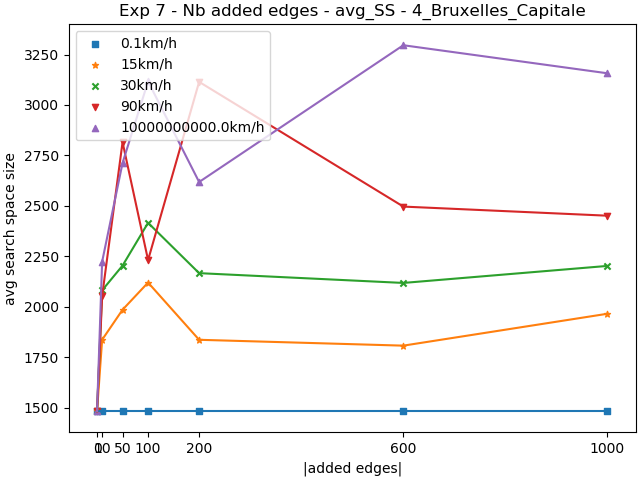
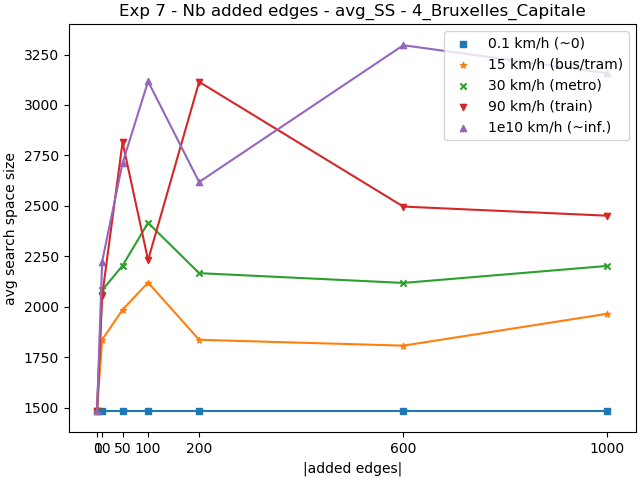
changed modalities repartition plot exp7 to bars

diff --git a/version_py/Visualization.py b/version_py/Visualization.py
@@ -130,13 +130,13 @@ def plotExp7Result(filename, title, ylabel, xlabel, ymetric, algo, graph, save_f
             y.append(stats[graph][str(s)][str(ae)][algo][ymetric])
 
         # scatter points
-        ax1.scatter(x, y, s=MARKER_SIZE, marker=MARKERS[m], label=str(s) + "km/h")
+        ax1.scatter(x, y, s=MARKER_SIZE, marker=MARKERS[m], label=SPEEDS_LABELS[s])
         plt.plot(x, y)
         plt.xticks(x, x)
         m += 1
 
     # show
-    show("upper left", title, ylabel, xlabel, save_filename)
+    show("upper right", title, ylabel, xlabel, save_filename)
 
 
 def plotImprovementsExp7(filename, title, ylabel, xlabel, ymetric, graph, save_filename):
@@ -161,7 +161,7 @@ def plotImprovementsExp7(filename, title, ylabel, xlabel, ymetric, graph, save_f
             y.append(improv)
 
         # scatter points
-        ax1.scatter(x, y, s=MARKER_SIZE, marker=MARKERS[m], label=str(s) + "km/h")
+        ax1.scatter(x, y, s=MARKER_SIZE, marker=MARKERS[m], label=SPEEDS_LABELS[s])
         plt.plot(x, y)
         plt.xticks(x, x)
         m += 1
@@ -190,14 +190,16 @@ def plotExp7ModalitiesLines(filename, title, ylabel, xlabel, graph, categories, 
             y.append(avg_percentage)
 
         # scatter points
-        ax1.scatter(x, y, s=MARKER_SIZE, marker=MARKERS[m], label=mod)
-        plt.plot(x, y)
-        plt.xticks(x, x)
+        # ax1.scatter(x, y, s=MARKER_SIZE, marker=MARKERS[m], label=mod)
+        # plt.plot(x, y)
+        # plt.xticks(x, x)
+        plt.bar(x, y, width=0.2)
         m += 1
 
     # show
-    plt.legend(bbox_to_anchor=(0, 1, 1, 0), loc="lower left", mode="expand", ncol=4)
-    show("center right", title, ylabel, xlabel, save_filename)
+    # plt.legend(bbox_to_anchor=(0, 1, 1, 0), loc="lower left", mode="expand", ncol=4)
+    plt.legend(categories, loc="center right")
+    show(None, title, ylabel, xlabel, save_filename)
 
 
 def plotExp7AvgDegResult(filename, title, ylabel, xlabel, graph, save_filename):
@@ -230,7 +232,7 @@ def plotMaxAvgLbExp7(filename, title, ylabel, xlabel, graph, save_filename):
             y.append(stats[graph][str(s)][str(ae)]["ALT"]["max_avg_lb"])
 
         # scatter points
-        ax1.scatter(x, y, s=MARKER_SIZE, marker=MARKERS[m], label=str(s) + "km/h")
+        ax1.scatter(x, y, s=MARKER_SIZE, marker=MARKERS[m], label=SPEEDS_LABELS[s])
         plt.plot(x, y)
         plt.xticks(x, x)
         m += 1
@@ -510,38 +512,38 @@ def plotExp7(metrics, improvements, graphs):
     """
 
     for graph in graphs:
-        for metric in metrics:
-            save_filename = getFileExpPath(7, "plot_" + metric + "_" + graph + ".png")
-            plotExp7Result(getFileExpPath(7, "exp7_all_stats.json"),
-                           "Exp 7 - Nb added edges - " + metric + " - " + graph,
-                           metrics[metric], "|added edges|", metric,
-                           "ALT", graph, save_filename)
-
-        for metric in improvements:
-            save_filename = getFileExpPath(7, "plot_improv_" + metric + "_" + graph + ".png")
-            plotImprovementsExp7(getFileExpPath(7, "exp7_all_stats.json"),
-                                 "Exp 7 - improvement - " + metric + " - " + graph,
-                                 improvements[metric], "|added edges|", metric,
-                                 graph, save_filename)
-
-        save_filename = getFileExpPath(7, "plot_prepro_" + graph + ".png")
-        plotExp7Result(getFileExpPath(7, "exp7_all_stats.json"),
-                       "Exp 7 - preprocessing time - " + graph,
-                       "preprocessing time (sec.)", "|added edges|", "lm_dists_CT",
-                       "ALT", graph, save_filename)
-
-        save_filename = getFileExpPath(7, "plot_avgDeg_" + graph + ".png")
-        plotExp7AvgDegResult(getFileExpPath(7, "exp7_all_stats.json"),
-                             "Exp 7 - avg deg - " + graph,
-                             "avg deg after", "|added edges|",
-                             graph, save_filename)
-
-        # plot : mac avg lower bound - ALT
-        save_filename = getFileExpPath(7, "plot_max_avg_lb_" + graph + ".png")
-        plotMaxAvgLbExp7(getFileExpPath(7, "exp7_all_stats.json"),
-                         "Exp 7 - Max average distance lower bound - " + graph,
-                         "max avg lower bound", "|added edges|",
-                         graph, save_filename)
+        # for metric in metrics:
+        #     save_filename = getFileExpPath(7, "plot_" + metric + "_" + graph + ".png")
+        #     plotExp7Result(getFileExpPath(7, "exp7_all_stats.json"),
+        #                    "Exp 7 - Nb added edges - " + metric + " - " + graph,
+        #                    metrics[metric], "|added edges|", metric,
+        #                    "ALT", graph, save_filename)
+        #
+        # for metric in improvements:
+        #     save_filename = getFileExpPath(7, "plot_improv_" + metric + "_" + graph + ".png")
+        #     plotImprovementsExp7(getFileExpPath(7, "exp7_all_stats.json"),
+        #                          "Exp 7 - improvement - " + metric + " - " + graph,
+        #                          improvements[metric], "|added edges|", metric,
+        #                          graph, save_filename)
+        #
+        # save_filename = getFileExpPath(7, "plot_prepro_" + graph + ".png")
+        # plotExp7Result(getFileExpPath(7, "exp7_all_stats.json"),
+        #                "Exp 7 - preprocessing time - " + graph,
+        #                "preprocessing time (sec.)", "|added edges|", "lm_dists_CT",
+        #                "ALT", graph, save_filename)
+        #
+        # save_filename = getFileExpPath(7, "plot_avgDeg_" + graph + ".png")
+        # plotExp7AvgDegResult(getFileExpPath(7, "exp7_all_stats.json"),
+        #                      "Exp 7 - avg deg - " + graph,
+        #                      "avg deg after", "|added edges|",
+        #                      graph, save_filename)
+        #
+        # # plot : mac avg lower bound - ALT
+        # save_filename = getFileExpPath(7, "plot_max_avg_lb_" + graph + ".png")
+        # plotMaxAvgLbExp7(getFileExpPath(7, "exp7_all_stats.json"),
+        #                  "Exp 7 - Max average distance lower bound - " + graph,
+        #                  "max avg lower bound", "|added edges|",
+        #                  graph, save_filename)
 
         # plot modalities lines :
         save_filename = getFileExpPath(7, "plot_modalities_" + graph + ".png")
@@ -679,7 +681,8 @@ def launchPlotExp(metrics, improvements, exp):
         plotExp10(metrics, [GRAPH_ULB])
 
 
-# ===============================================================
+# ==============================================================
+
 
 def testPlot3D():
     # creating an empty canvas

diff --git a/version_py/Constants.py b/version_py/Constants.py
@@ -56,7 +56,11 @@ CAR_CONSUMPTION =       7    # L / 100km
 
 # Exp 7 - multimodal public transport
 SPEEDS =                [0.1, 15, 30, 90, 1e10]
-# ADDED_EDGES =           [0, 10, 50, 100, 200]
+SPEEDS_LABELS =         {0.1: "0.1 km/h (~0)",
+                         15: "15 km/h (bus/tram)",
+                         30: "30 km/h (metro)",
+                         90: "90 km/h (train)",
+                         1e10: "1e10 km/h (~inf.)"}
 ADDED_EDGES =           [0, 10, 50, 100, 200, 600, 1000]
 FOOT_PUBLIC_TRANSPORT = ["foot", "Public Transport"]
 EXP7_GRAPH =            4
@@ -66,7 +70,6 @@ EXP8_GRAPHS =           [1, 2, 3, 4, 5]
 FOOT_VILLO =            ["foot", "toStation", "fromStation", "Villo"]
 CAR_VILLO =             ["foot", "toStation", "fromStation", "car"]
 
-
 TO_STATION_COST =       60
 FROM_STATION_COST =     60
 
@@ -74,7 +77,7 @@ EXPERIMENTS =           [1]
 NB_RUNS =               500
 
 # Visualization parameters
-EXPERIMENT_PLOT =       8
+EXPERIMENT_PLOT =       7
 KEPT_GRAPHS =           [0, 1, 2, 3, 4, 5]
 MARKERS =               ["s", "*", "x", "v", "^", "o", "d", "p"]
 MARKER_SIZE =           20
